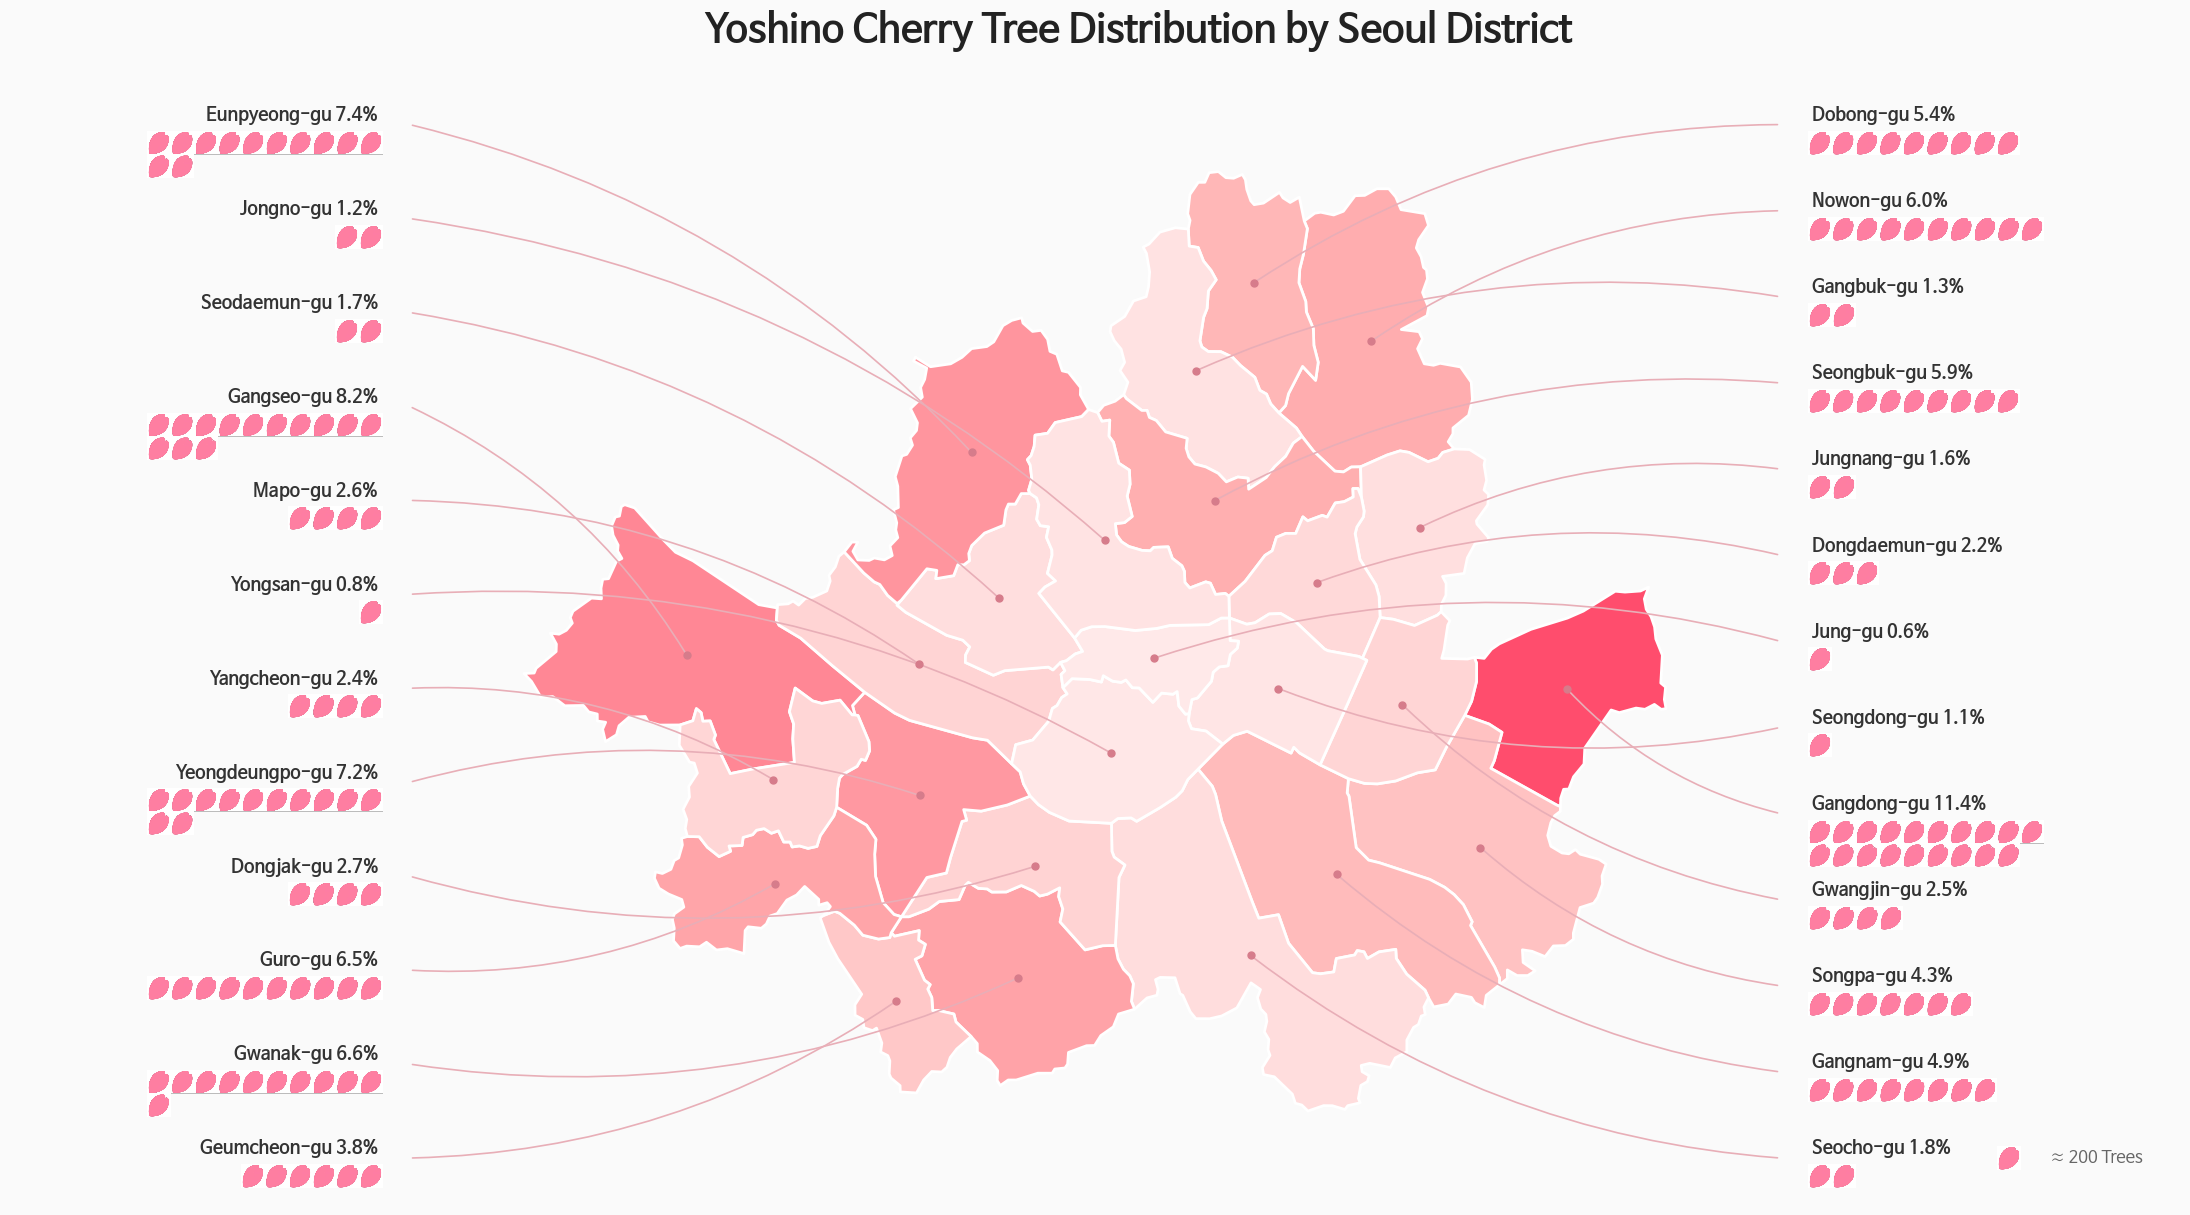
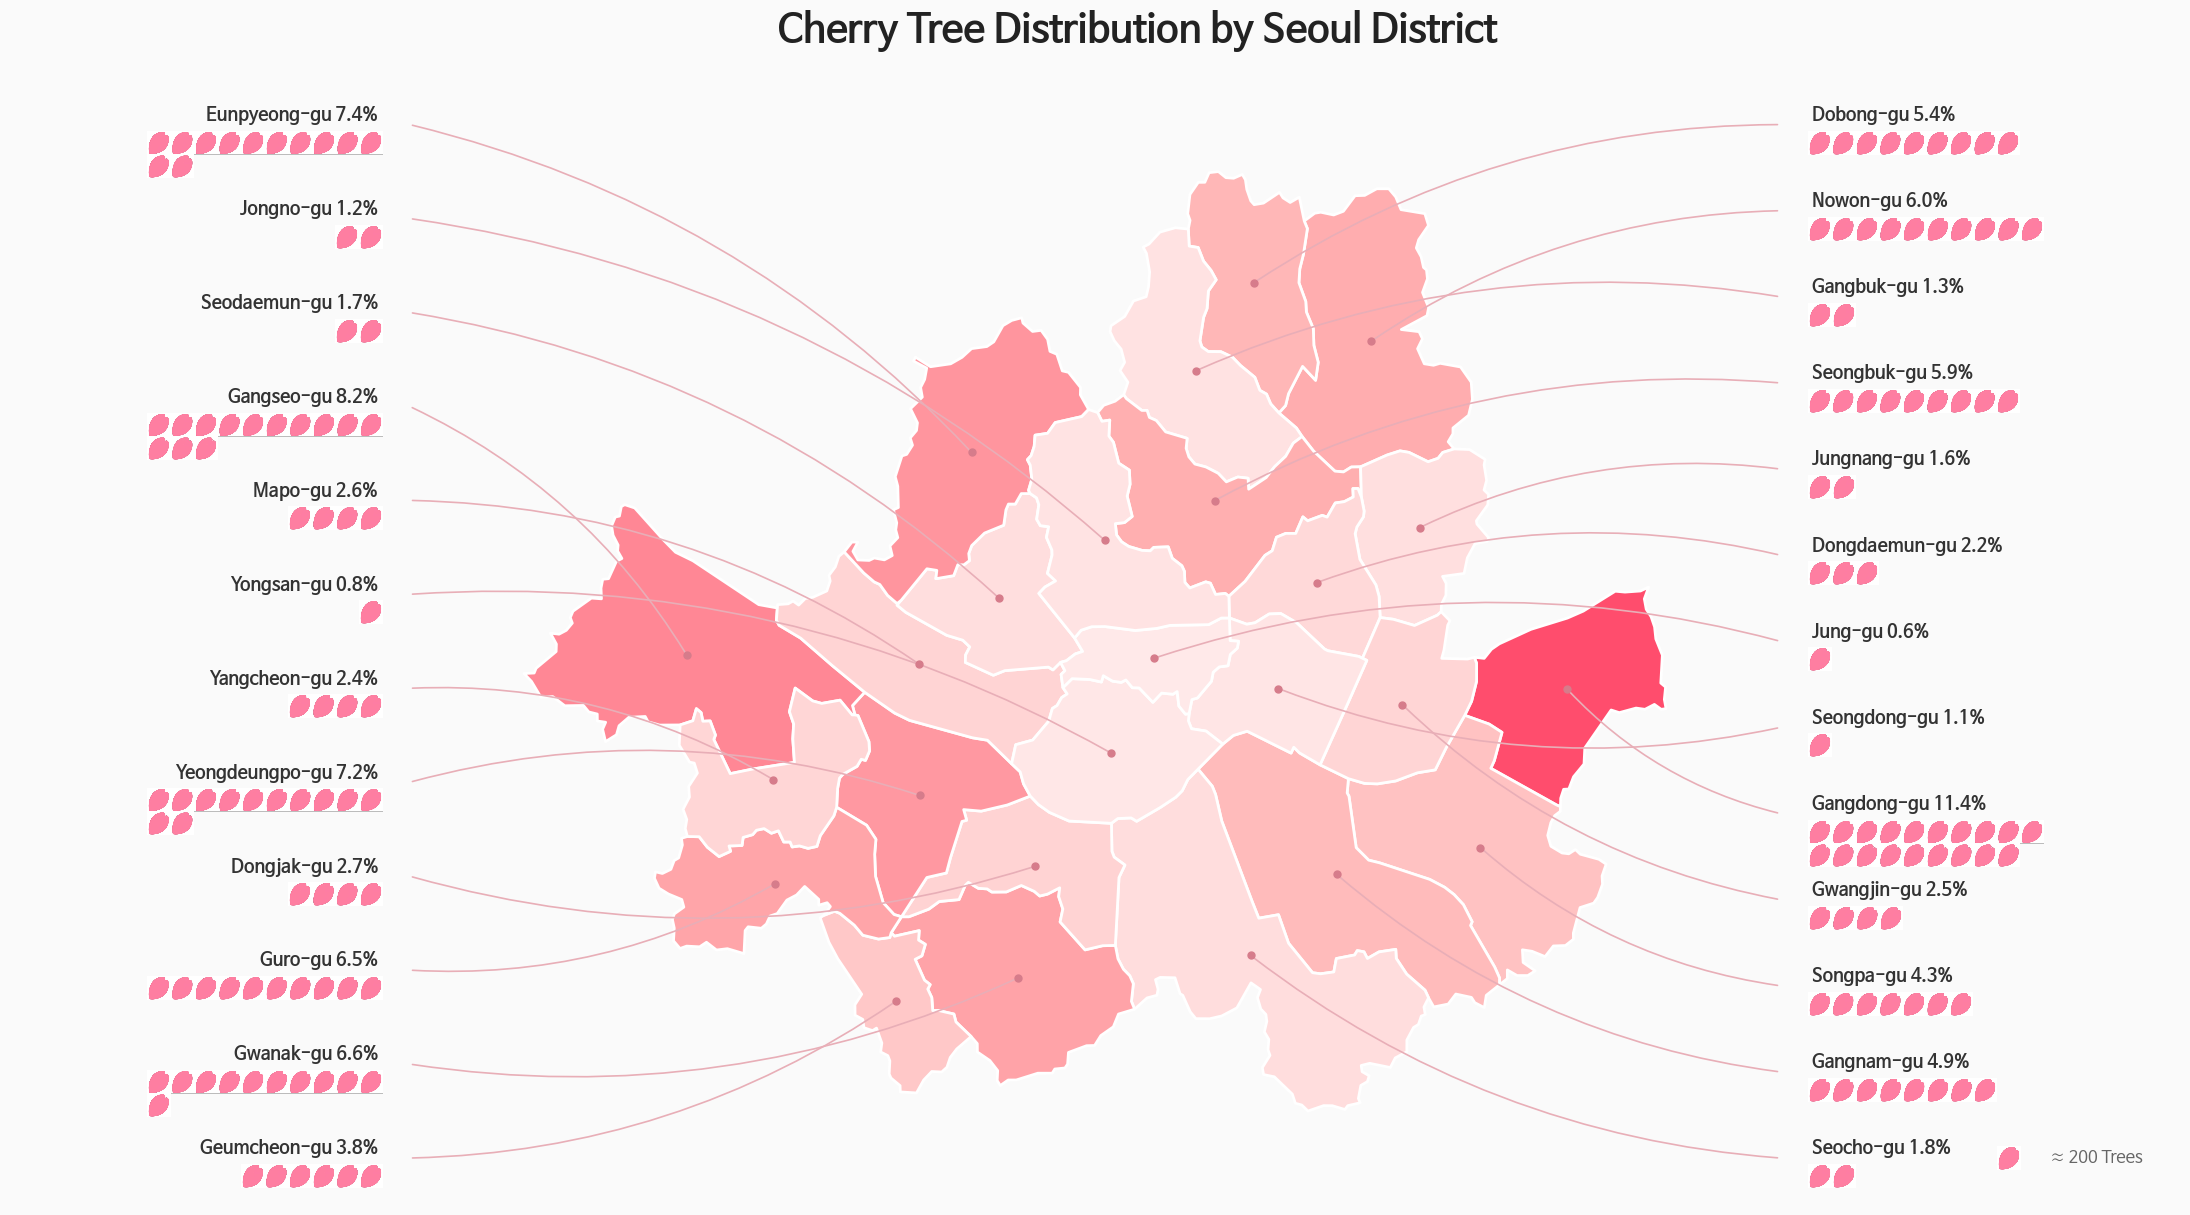
docs: Day1 영문 포스트 내용 보강 및 인포그래픽 이미지 업데이트

Changed region(s): [[0.3105, 0.0, 0.7142, 0.0609]]

diff --git a/src/content/blog/30daychartchallenge/day1-part-to-whole/index.md b/src/content/blog/30daychartchallenge/day1-part-to-whole/index.md
@@ -264,16 +264,37 @@ import matplotlib.image as mpimg
 from matplotlib.offsetbox import OffsetImage, AnnotationBbox
 import matplotlib.colors as mcolors
 
-# Font setup
-fm._load_fontmanager(try_read_cache=False)
+# --- Font Settings ---
+# Switching to a standard sans-serif font for English rendering
 mpl.rcParams["font.family"] = "NanumBarunGothic"
 mpl.rcParams["axes.unicode_minus"] = False
 
-# === Data preparation ===
+# === 1. Data Preparation ===
 seoul_inf = gpd.read_file("seoul_gu.geojson")
+
+# Filtering cherry tree data for 2024
+# (Note: Assumes cherry_df is already loaded in your environment)
 c2024 = cherry_df[cherry_df["year"] == 2024][["district", "cherry_count"]].copy()
+
 seoul_inf = seoul_inf.merge(c2024, left_on="name", right_on="district", how="left")
 seoul_inf["cherry_count"] = seoul_inf["cherry_count"].fillna(0).astype(int)
+
+# --- 💡 NEW: Korean to English District Mapping ---
+district_mapping = {
+    '강남구': 'Gangnam-gu', '강동구': 'Gangdong-gu', '강북구': 'Gangbuk-gu',
+    '강서구': 'Gangseo-gu', '관악구': 'Gwanak-gu', '광진구': 'Gwangjin-gu',
+    '구로구': 'Guro-gu', '금천구': 'Geumcheon-gu', '노원구': 'Nowon-gu',
+    '도봉구': 'Dobong-gu', '동대문구': 'Dongdaemun-gu', '동작구': 'Dongjak-gu',
+    '마포구': 'Mapo-gu', '서대문구': 'Seodaemun-gu', '서초구': 'Seocho-gu',
+    '성동구': 'Seongdong-gu', '성북구': 'Seongbuk-gu', '송파구': 'Songpa-gu',
+    '양천구': 'Yangcheon-gu', '영등포구': 'Yeongdeungpo-gu', '용산구': 'Yongsan-gu',
+    '은평구': 'Eunpyeong-gu', '종로구': 'Jongno-gu', '중구': 'Jung-gu',
+    '중랑구': 'Jungnang-gu'
+}
+# Create a new column for English names
+seoul_inf["name_eng"] = seoul_inf["name"].map(district_mapping)
+
+# Calculate percentages and number of petals
 total = seoul_inf["cherry_count"].sum()
 seoul_inf["pct"] = seoul_inf["cherry_count"] / total * 100
 seoul_inf["n_petals"] = np.maximum(1, seoul_inf["cherry_count"] // 200)
@@ -282,12 +303,12 @@ seoul_inf["cx"] = seoul_inf.geometry.centroid.x
 seoul_inf["cy"] = seoul_inf.geometry.centroid.y
 mcx = seoul_inf["cx"].mean()
 
-# Split into left/right and sort by Y
+# Split districts into Left/Right groups
 left_mask = seoul_inf["cx"] < mcx
 left_df = seoul_inf[left_mask].sort_values("cy", ascending=False).reset_index(drop=True)
 right_df = seoul_inf[~left_mask].sort_values("cy", ascending=False).reset_index(drop=True)
 
-# === Petal grid helper ===
+# === 2. Cherry Blossom Petal Image Function ===
 petal_img = mpimg.imread(
     "/home/jonghwan/git/jonghwanyoon.github.io/src/content/blog/30daychartchallenge/day1-part-to-whole/cherry-blossom.png"
 )
@@ -302,12 +323,12 @@ def make_petal_grid(img, count, cols=10):
         grid[r * h:(r + 1) * h, c * w:(c + 1) * w] = img[:, :, :4]
     return grid
 
-# === Draw ===
+# === 3. Plotting ===
 fig, ax = plt.subplots(figsize=(22, 16))
 fig.patch.set_facecolor("#fafafa")
 ax.set_facecolor("#fafafa")
 
-# 1. Choropleth map
+# 3.1 Draw Choropleth Map
 cmap = mcolors.LinearSegmentedColormap.from_list("cherry_grad", ["#fff0f0", "#ffb3b3", "#ff4d6d"])
 seoul_inf.plot(
     ax=ax, 
@@ -331,7 +352,7 @@ y_end = bounds[1] - (map_h * 0.05)
 left_y_coords = np.linspace(y_start, y_end, len(left_df))
 right_y_coords = np.linspace(y_start, y_end, len(right_df))
 
-# 2. Left labels
+# 3.2 Draw Left-side Labels
 for i, row in left_df.iterrows():
     cx, cy = row["cx"], row["cy"]
     lx, ly = left_x, left_y_coords[i]
@@ -341,14 +362,17 @@ for i, row in left_df.iterrows():
                 arrowprops=dict(arrowstyle="-", color="#e8aeb7", connectionstyle=f"arc3,rad={rad}", lw=1.2), zorder=3)
     ax.plot(cx, cy, "o", color="#d67c8b", markersize=5, zorder=4)
     
-    ax.text(lx - 0.01, ly, f"{row['name']} {row['pct']:.1f}% ", fontsize=13, ha="right", va="bottom", fontweight="bold", color="#333", zorder=5)
+    # 💡 CHANGED: row['name'] -> row['name_eng']
+    ax.text(lx - 0.01, ly, f"{row['name_eng']} {row['pct']:.1f}% ", 
+            fontsize=13, ha="right", va="bottom", fontweight="bold", color="#333", zorder=5)
     
     grid = make_petal_grid(petal_img, row["n_petals"], cols=10)
     im = OffsetImage(grid, zoom=0.08)
-    ab = AnnotationBbox(im, (lx - 0.01, ly), frameon=False, box_alignment=(1.0, 1.0), xybox=(0, -5), boxcoords="offset points", zorder=4)
+    ab = AnnotationBbox(im, (lx - 0.01, ly), frameon=False, 
+                        box_alignment=(1.0, 1.0), xybox=(0, -5), boxcoords="offset points", zorder=4)
     ax.add_artist(ab)
 
-# 3. Right labels
+# 3.3 Draw Right-side Labels
 for i, row in right_df.iterrows():
     cx, cy = row["cx"], row["cy"]
     lx, ly = right_x, right_y_coords[i]
@@ -358,30 +382,33 @@ for i, row in right_df.iterrows():
                 arrowprops=dict(arrowstyle="-", color="#e8aeb7", connectionstyle=f"arc3,rad={rad}", lw=1.2), zorder=3)
     ax.plot(cx, cy, "o", color="#d67c8b", markersize=5, zorder=4)
     
-    ax.text(lx + 0.01, ly, f" {row['name']} {row['pct']:.1f}%", fontsize=13, ha="left", va="bottom", fontweight="bold", color="#333", zorder=5)
+    # 💡 CHANGED: row['name'] -> row['name_eng']
+    ax.text(lx + 0.01, ly, f" {row['name_eng']} {row['pct']:.1f}%", 
+            fontsize=13, ha="left", va="bottom", fontweight="bold", color="#333", zorder=5)
     
     grid = make_petal_grid(petal_img, row["n_petals"], cols=10)
     im = OffsetImage(grid, zoom=0.08)
-    ab = AnnotationBbox(im, (lx + 0.01, ly), frameon=False, box_alignment=(0.0, 1.0), xybox=(0, -5), boxcoords="offset points", zorder=4)
+    ab = AnnotationBbox(im, (lx + 0.01, ly), frameon=False, 
+                        box_alignment=(0.0, 1.0), xybox=(0, -5), boxcoords="offset points", zorder=4)
     ax.add_artist(ab)
 
-# === Axis and legend ===
+# --- Finalizing Axis and Legend ---
 pad_x, pad_y = map_w * 0.45, map_h * 0.1
 ax.set_xlim(bounds[0] - pad_x, bounds[2] + pad_x)
 ax.set_ylim(bounds[1] - pad_y, bounds[3] + pad_y)
 ax.set_axis_off()
 
-# Title
-ax.text(mcx, bounds[3] + map_h * 0.15, "서울시 자치구별 왕벚나무 분포", 
+# Main Title
+ax.text(mcx, bounds[3] + map_h * 0.15, "Yoshino Cherry Tree Distribution by Seoul District", 
         fontsize=28, fontweight="bold", ha="center", va="center", color="#222")
 
-# Legend
+# Map Legend
 legend_petal = OffsetImage(petal_img, zoom=0.08)
 legend_x = bounds[2] + (map_w * 0.3)
 legend_y = bounds[1] - (map_h * 0.05)
 ab_leg = AnnotationBbox(legend_petal, (legend_x, legend_y), frameon=False, zorder=5)
 ax.add_artist(ab_leg)
-ax.text(legend_x + 0.015, legend_y, "= 약 200그루", fontsize=12, va="center", color="#666")
+ax.text(legend_x + 0.015, legend_y, "≈ 200 Trees", fontsize=12, va="center", color="#666")
 
 plt.tight_layout()
 plt.show()
@@ -405,30 +432,33 @@ import matplotlib as mpl
 import matplotlib.font_manager as fm
 import os
 
-# Font setup
+# 폰트 설정 (영문도 깔끔하게 나오는 폰트로 유지)
 fm._load_fontmanager(try_read_cache=False)
-mpl.rcParams["font.family"] = "NanumBarunGothic"
+mpl.rcParams["font.family"] = "NanumBarunGothic" 
 mpl.rcParams["axes.unicode_minus"] = False
 
-# Handwriting-style font
+# 손글씨 폰트 설정
+font_path = 'NanumPenScript-Regular.ttf' 
 handwriting_fp = fm.FontProperties(family='NanumBarunGothic', size=16, weight='bold')
 
-# === 1. Data preparation ===
+# === 1. 데이터 준비 (영문 번역) ===
 data = {
-    'district': ['강동구', '강서구', '은평구', '영등포구', '관악구', '기타 20개 구'],
+    'district': ['Gangdong-gu', 'Gangseo-gu', 'Eunpyeong-gu', 'Yeongdeungpo-gu', 'Gwanak-gu', 'Other 20 Districts'],
     'pct': [11.4, 8.2, 7.4, 7.2, 6.6, 59.2] 
 }
 df = pd.DataFrame(data)
 
-# === 2. Map data and color mapping ===
+# === 2. 지도 데이터 및 색상 매핑 ===
 seoul_inf = gpd.read_file("seoul_gu.geojson")
 bg_color = "#F8F9FA"
 colors = ["#FF4D6D", "#FF758F", "#FF8FA3", "#FFB3C1", "#FFCCD5", "#E2E8F0"]
 
-color_map = {row['district']: colors[i] for i, row in df.iloc[:5].iterrows()}
+# 색상 매핑 (원본 데이터의 한글 이름과 매핑해야 하므로 하드코딩)
+kr_districts = ['강동구', '강서구', '은평구', '영등포구', '관악구']
+color_map = {kr_districts[i]: colors[i] for i in range(5)}
 seoul_inf['color'] = seoul_inf['name'].map(color_map).fillna(colors[5])
 
-# === 3. Canvas and layout ===
+# === 3. 캔버스 및 레이아웃 ===
 fig = plt.figure(figsize=(16, 9), facecolor=bg_color)
 
 ax_main = fig.add_axes([0.02, 0.05, 0.55, 0.75]) 
@@ -437,11 +467,24 @@ ax_map = fig.add_axes([0.62, 0.05, 0.35, 0.5])
 ax_main.set_facecolor(bg_color)
 ax_map.set_facecolor(bg_color)
 
-# === 4. Main title ===
-fig.text(0.05, 0.90, "서울의 벚꽃, 어디에 가장 많을까?", fontsize=28, fontweight='bold', color='#1A202C')
-fig.text(0.05, 0.84, "전체 왕벚나무의 약 40%가 상위 5개 자치구에 집중되어 있습니다.", fontsize=15, color='#4A5568')
+# === 3-1. 타이틀 벚꽃잎 아이콘 추가 ===
+petal_img_path = "/home/jonghwan/git/jonghwanyoon.github.io/src/content/blog/30daychartchallenge/day1-part-to-whole/cherry-blossom.png"
 
-# === 5. Donut chart ===
+try:
+    petal_img = plt.imread(petal_img_path)
+    ax_icon = fig.add_axes([0.03, 0.88, 0.035, 0.05]) 
+    ax_icon.imshow(petal_img)
+    ax_icon.axis('off')
+    title_start_x = 0.075 # 영문 길이에 맞춰 아이콘 옆 여백 조정
+except FileNotFoundError:
+    print("벚꽃잎 이미지를 찾을 수 없어 아이콘 없이 타이틀을 출력합니다.")
+    title_start_x = 0.05
+
+# === 4. 메인 타이틀 (영문 번역) ===
+fig.text(title_start_x, 0.90, "Where are the Most Cherry Trees in Seoul?", fontsize=28, fontweight='bold', color='#1A202C')
+fig.text(0.04, 0.84, "Approximately 40% of Yoshino cherry trees are concentrated in the top 5 districts.", fontsize=15, color='#4A5568')
+
+# === 5. 도넛 차트 ===
 wedges, texts, autotexts = ax_main.pie(
     df['pct'], colors=colors, autopct='%1.1f%%', startangle=160, pctdistance=0.82,
     wedgeprops=dict(width=0.35, edgecolor=bg_color, linewidth=4),
@@ -452,28 +495,31 @@ for i, autotext in enumerate(autotexts):
     autotext.set_color('white' if i < 3 else '#4A5568')
 
 ax_main.text(0, 0.12, "2024", ha='center', va='center', fontsize=18, fontweight='bold', color='#A0AEC0')
-ax_main.text(0, -0.1, "서울시 왕벚나무\n분포 현황", ha='center', va='center', fontsize=22, fontweight='bold', color='#2D3748', linespacing=1.4)
+ax_main.text(0, -0.1, "Seoul Cherry Tree\nDistribution", ha='center', va='center', fontsize=22, fontweight='bold', color='#2D3748', linespacing=1.4)
 
-# === 6. Legend ===
+# === 6. 범례 (영문 번역) ===
 legend_labels = [f"{row['district']} ({row['pct']:.1f}%)" for _, row in df.iterrows()]
-ax_main.legend(wedges, legend_labels, title="자치구별 비중", title_fontproperties={'weight':'bold', 'size':15},
+ax_main.legend(wedges, legend_labels, title="Share by District", title_fontproperties={'weight':'bold', 'size':15},
           loc="upper left", bbox_to_anchor=(1.05, 0.95), frameon=False, fontsize=14, labelspacing=1.3)
 
-# === 7. Minimap ===
+# === 7. 미니맵 그리기 ===
 seoul_inf.plot(ax=ax_map, color=seoul_inf['color'], edgecolor="white", linewidth=1.2, zorder=1)
 ax_map.set_axis_off()
 
+# 💡 실제 벚나무 데이터 오버레이 
 gdf_real = gpd.GeoDataFrame(cb_df, geometry=gpd.points_from_xy(cb_df.LOT, cb_df.LAT), crs="EPSG:4326")
 gdf_real.plot(ax=ax_map, color='#FF4D6D', markersize=1, alpha=0.6, zorder=2)
 
-# === 8. Notable cherry blossom spots ===
+# === 8. 주요 벚꽃 명소 손글씨 라벨링 (영문 번역 및 좌표 미세 조정) ===
+# 영문 텍스트가 더 길기 때문에 xytext(라벨 여백)를 조금씩 더 넓혔습니다.
 spots = [
-    {'name': '곰달래길', 'coords': (126.845, 37.532), 'xytext': (-50, 20), 'rad': -0.2},
-    {'name': '안양천', 'coords': (126.885, 37.480), 'xytext': (-50, -30), 'rad': 0.2},
-    {'name': '여의도 윤중로', 'coords': (126.918, 37.528), 'xytext': (-10, 40), 'rad': 0.3},
-    {'name': '석촌호수', 'coords': (127.103, 37.508), 'xytext': (40, -40), 'rad': -0.3},
-    {'name': '양재천', 'coords': (127.045, 37.475), 'xytext': (20, -40), 'rad': -0.2}
+    {'name': 'Gomdallae-gil', 'coords': (126.845, 37.532), 'xytext': (-50, 20), 'rad': -0.2},
+    {'name': 'Anyangcheon', 'coords': (126.885, 37.480), 'xytext': (-50, -30), 'rad': 0.2},
+    {'name': 'Yeouido Yunjung-ro', 'coords': (126.918, 37.528), 'xytext': (-10, 40), 'rad': 0.3},
+    {'name': 'Seokchon Lake', 'coords': (127.103, 37.508), 'xytext': (40, -40), 'rad': -0.3},
+    {'name': 'Yangjaecheon', 'coords': (127.045, 37.475), 'xytext': (20, -40), 'rad': -0.2}
 ]
+
 
 for spot in spots:
     cx, cy = spot['coords']
@@ -485,7 +531,7 @@ for spot in spots:
         ha='center', va='center',
         fontproperties=handwriting_fp, 
         color='#333333',
-        zorder=5,
+        zorder=5, 
         arrowprops=dict(
             arrowstyle="->",
             color="#555555",
@@ -494,7 +540,8 @@ for spot in spots:
         )
     )
 
-ax_map.text(0.5, 1.05, "주요 벚꽃 명소 위치", transform=ax_map.transAxes, ha='center', va='bottom', fontsize=14, fontweight='bold', color='#718096')
+# 미니맵 타이틀 (영문 번역)
+ax_map.text(0.5, 1.05, "Spots", transform=ax_map.transAxes, ha='center', va='bottom', fontsize=14, fontweight='bold', color='#718096')
 
 plt.show()
 ```
